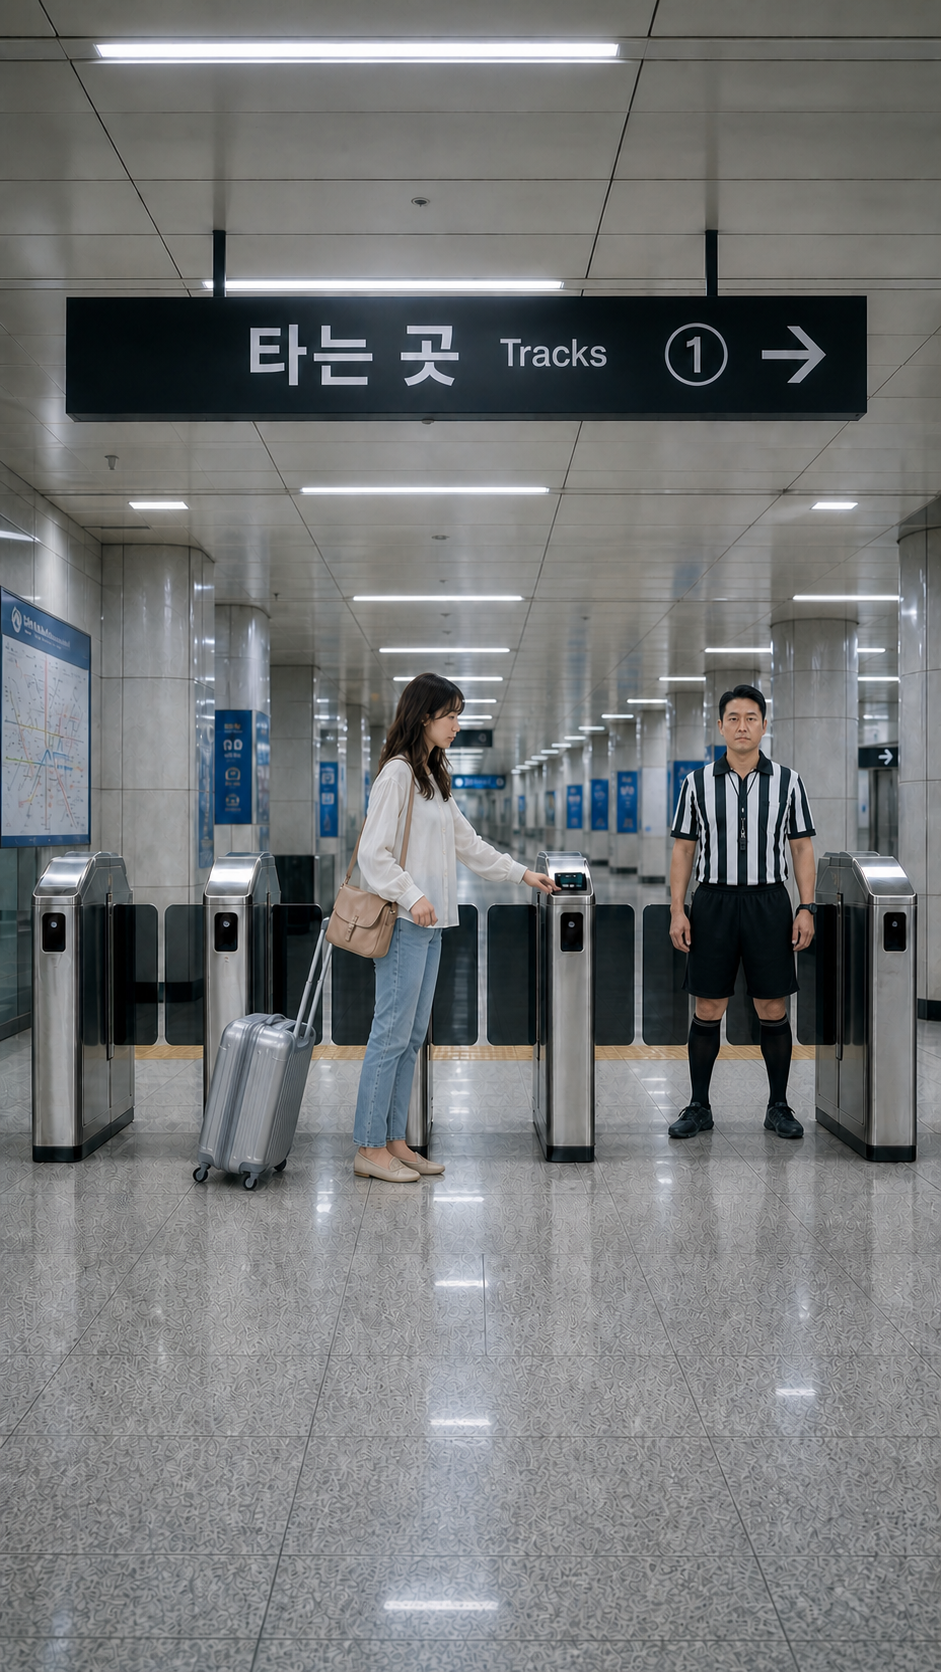
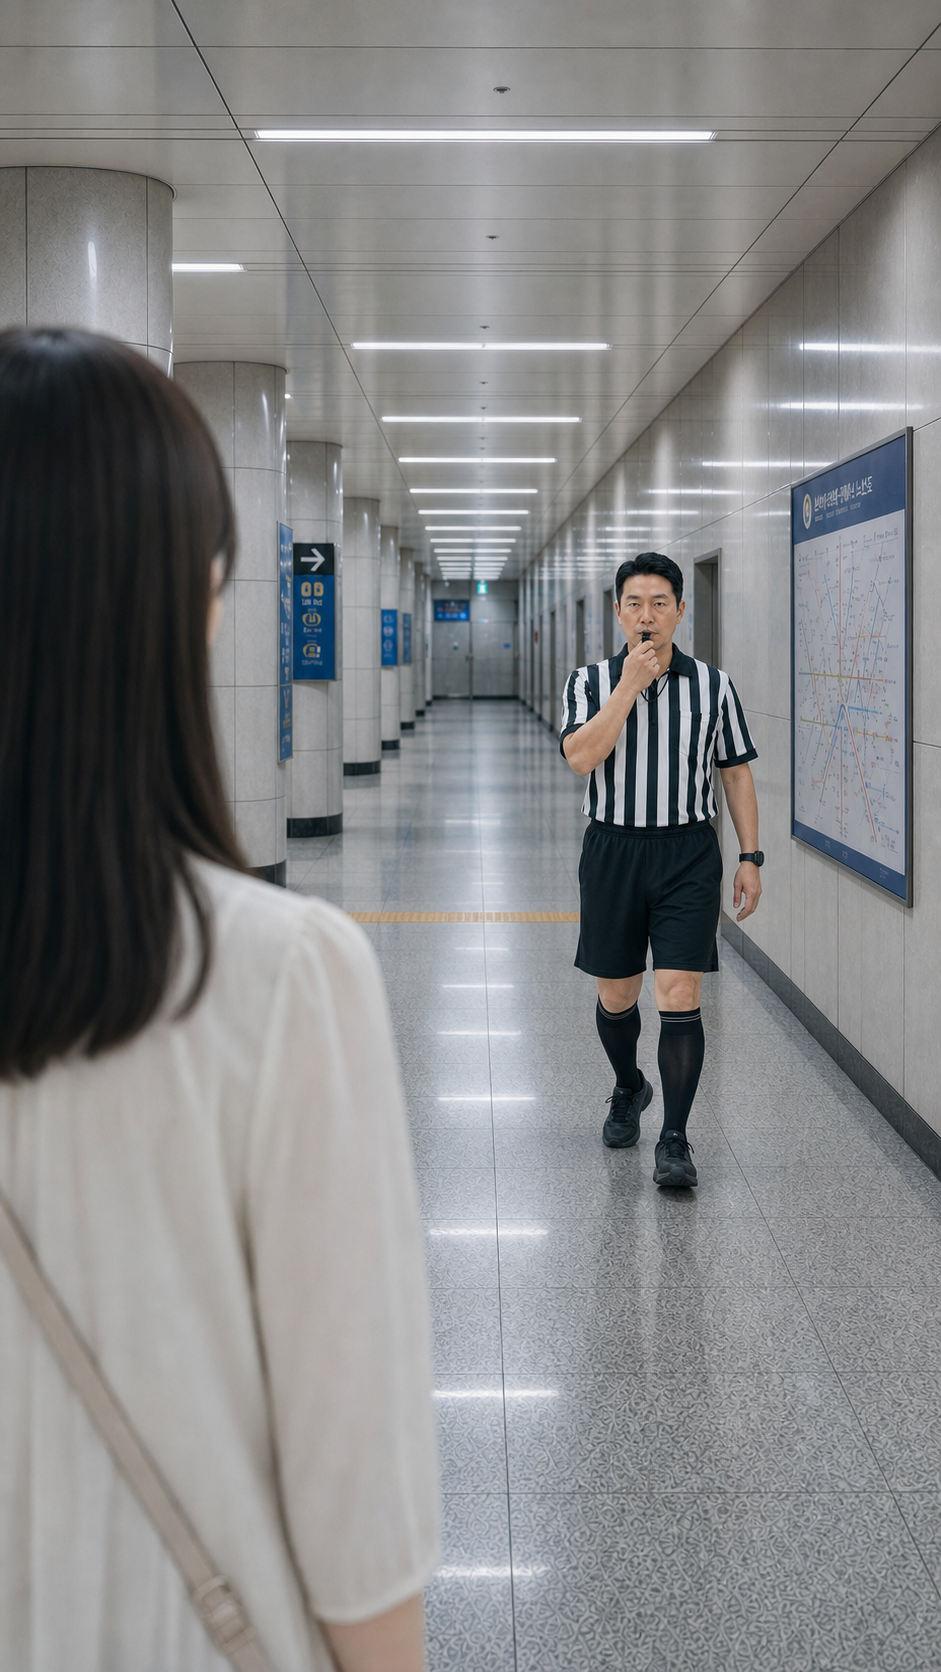
feat: rebuild referee approach on right concourse

diff --git a/edit/storyboard_gpt2/prompts/prompt-pack.md b/edit/storyboard_gpt2/prompts/prompt-pack.md
@@ -59,7 +59,7 @@ Inputs: S05 sketch = emphasis; referee sheet = identity; A03 = Korean setting. T
 
 ## S06
 
-Inputs: S06 sketch = composition; A01/A02/A03 = geography and blocking; both character sheets = identity. Wide reveal of the same G3/G4 gates: tourist frozen at G3 on the left half, referee standing formally in G4 on screen-right. Keep ample negative space between them, closed G3 flap and suitcase behind tourist visible.
+Inputs: old S06 = story beat only; A04 = mandatory right-side corridor; `tourist_lock_JP_v2.jpg` and referee sheet = identity. True over-the-shoulder view from behind and slightly left of the tourist: her straight-haired rear head and left shoulder fill the soft-focus screen-left foreground while the referee, 6–8m away and slightly screen-right, looks at her, finishes the whistle beat and takes his first deliberate step toward her. Same A04 wall map, blue signs, tiled columns, ceiling-light rhythm and floor axis. No gates, gate readers, large `타는 곳` sign, TOSS card or extra people.
 
 ## S07
 
@@ -67,7 +67,7 @@ Inputs: S07 sketch = composition; A02/A03 = direction; tourist sheet = identity.
 
 ## S08
 
-Inputs: S08 sketch = composition; A03 = environment and start position; referee sheet = identity. Low camera in G4 as the referee strides directly toward lens with stern deadpan expression, one foot forward, arms naturally counter-swinging, whistle and watch visible, gate rows receding behind him. 50mm compression, no stadium or effects.
+Inputs: approved S06 + A04 = exact geography and approach axis; `tourist_lock_JP_v2.jpg` and referee sheet = identity. Continue one beat later from the same over-the-shoulder direction with the camera 10–15% closer and slightly lower. Referee advances in a large natural mid-stride toward the tourist, full body and shoes visible, stern deadpan face, whistle lowered and black watch on left wrist. Keep a blurred sliver of the tourist's straight rear hair and left shoulder at the screen-left edge to prove the target. No gates, gate readers, large `타는 곳` sign, TOSS card, runway symmetry or effects.
 
 ## S09
 
